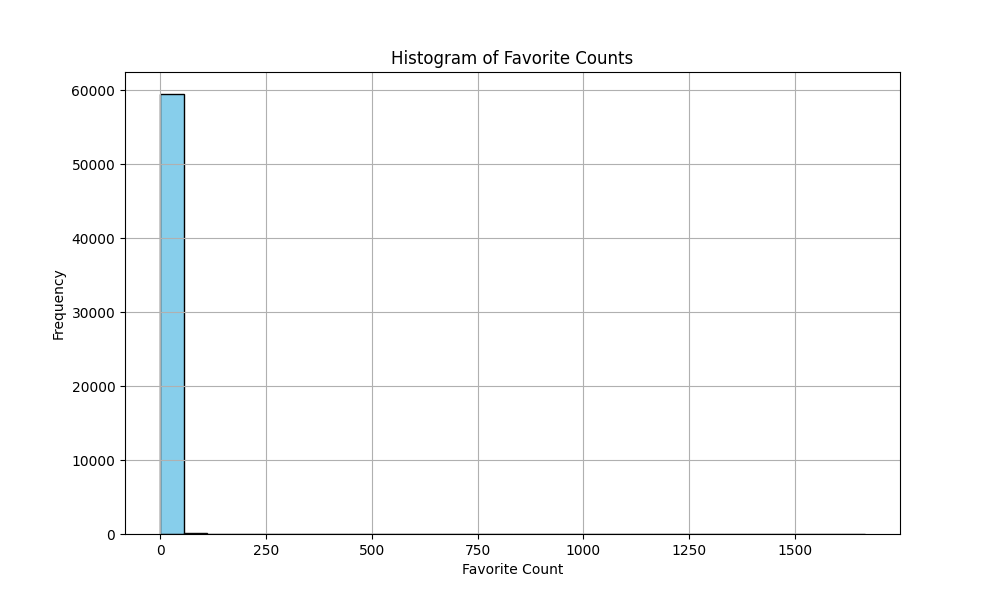
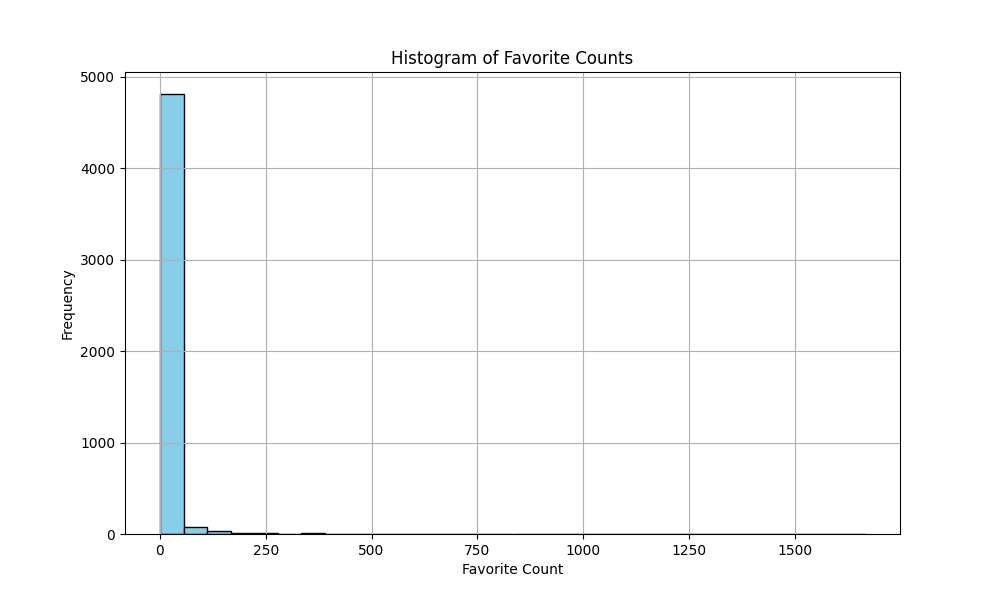
IGNORE: historgram update

diff --git a/Phase-2/Scripts/visualizations/histogram.py b/Phase-2/Scripts/visualizations/histogram.py
@@ -12,6 +12,7 @@ csv_files = sorted(glob.glob(os.path.join(data_dir, "part-*.csv")))
 favorite_counts = []
 
 total_lines = 0  # Counter for total lines processed
+skipped_lines = 0
 
 for path in csv_files:
     with open(path, "r", encoding="utf-8") as f:
@@ -22,17 +23,18 @@ for path in csv_files:
             # Split from the right to handle commas in the text column
             parts = line.rsplit(",", 6)
             if len(parts) != 7:
-                print('Skipping malformed row')
+                skipped_lines += 1
                 continue  # Skip malformed rows
             try:
                 fav_count = int(parts[-5])  # 3rd from last = index -5
-                # if fav_count > 0:  # Exclude entries with favorite count of 0
-                favorite_counts.append(fav_count)
+                if fav_count > 0:  # Exclude entries with favorite count of 0
+                    favorite_counts.append(fav_count)
                 total_lines += 1
             except ValueError:
                 continue  # Skip non-integer entries
 
 print(f"Total lines processed: {total_lines}")
+print(f"Skipped lines: {skipped_lines}")
 
 # Plot histogram
 plt.figure(figsize=(10, 6))
